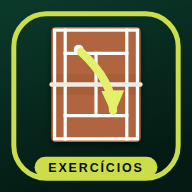
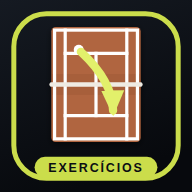
Volta o app de Exercicios ao visual anterior (desfaz o verde premium)
A pedido do Joao: a folha A4 e os exercicios ficam como estavam antes. Isto
desfaz 400e863 inteiro — cores da tela, icone, splash, manifest e o degrade
do desenho. Conteudo dos exercicios e folha A4 nao tinham mudado e seguem
iguais.

Claude-Session: https://claude.ai/code/session_014FKkHpNzg71Vb3bUZ4TcyT

Changed region(s): [[0.0, 0.0, 1.0, 0.5938]]

diff --git a/app-exercicios/index.html b/app-exercicios/index.html
@@ -5,7 +5,7 @@
 <meta name="viewport" content="width=device-width, initial-scale=1.0, viewport-fit=cover">
 <title>Banco de Exercícios JV · Da Base ao Topo</title>
 <meta name="description" content="Banco de exercícios da metodologia Da Base ao Topo: filtra por tema do mês, nível do aluno, bloco da aula e necessidade específica — e monta o plano de aula.">
-<meta name="theme-color" content="#06140F">
+<meta name="theme-color" content="#102438">
 <!-- Ferramenta interna do professor, não página de venda: fora do Google.
      O conteúdo do banco é o miolo da formação (produto pago) — ver LEIA-ME.md. -->
 <meta name="robots" content="noindex,nofollow">
@@ -32,14 +32,11 @@
 <meta name="apple-mobile-web-app-title" content="Exercícios JV">
 <style>
 :root{
-  /* verde premium JV — o mesmo da Gestão e do App Aluno (fundo #06140F,
-     dourado #E8B83E). Os nomes das variáveis ficaram "navy" por história. */
-  --navy:#072A1F; --navy-2:#0B3A2B; --navy-3:#105039; --deep:#041A13;
-  --gold:#E8B83E; --gold-2:#C9982A; --gold-soft:#F2CF62;
-  --cream:#EEF2E5; --ink:#10261E;
-  /* texto secundário: .42 dava 3,3:1 sobre o cartão — abaixo do mínimo */
-  --muted:rgba(238,242,229,.74); --muted-2:rgba(238,242,229,.62);
-  --line:rgba(232,184,62,.24); --line-2:rgba(238,242,229,.14);
+  --navy:#102438; --navy-2:#15304A; --navy-3:#1C3F5E; --deep:#0B1B2B;
+  --gold:#D8B45C; --gold-2:#C49A3F; --gold-soft:#E7CE93;
+  --cream:#F4EFE6; --ink:#21303D;
+  --muted:rgba(244,239,230,.62); --muted-2:rgba(244,239,230,.42);
+  --line:rgba(216,180,92,.22); --line-2:rgba(244,239,230,.12);
   --ok:#7FA650; --warn:#E0784A; --r:14px;
   --topo:env(safe-area-inset-top,0px); --base:env(safe-area-inset-bottom,0px);
 }
@@ -60,7 +57,7 @@ input,select{font:inherit}
 
 /* ---------- barra de cima ---------- */
 header.bar{
-  position:sticky;top:0;z-index:50;background:rgba(4,26,19,.97);
+  position:sticky;top:0;z-index:50;background:rgba(11,27,43,.97);
   backdrop-filter:saturate(140%) blur(10px);border-bottom:1px solid var(--line);
   padding-top:var(--topo);
 }
@@ -100,7 +97,7 @@ header.bar{
   padding:9px 16px;scrollbar-width:none;-webkit-overflow-scrolling:touch}
 .tira::-webkit-scrollbar{display:none}
 .tira.centro{max-width:900px;margin:0 auto}
-.chip{flex-shrink:0;min-height:40px;padding:8px 14px;border-radius:999px;border:1px solid var(--line-2);
+.chip{flex-shrink:0;padding:8px 14px;border-radius:999px;border:1px solid var(--line-2);
   font-size:13px;font-weight:600;color:var(--muted);white-space:nowrap;background:var(--navy-2);
   line-height:1.25;text-align:center}
 .chip:active{transform:scale(.96)}
@@ -112,7 +109,7 @@ header.bar{
 .chip.agora::after{content:"• agora";margin-left:6px;font-size:10px;font-weight:800;letter-spacing:.06em}
 
 .filtros{position:sticky;top:calc(58px + var(--topo));z-index:40;
-  background:rgba(7,42,31,.97);backdrop-filter:blur(8px);border-bottom:1px solid var(--line-2)}
+  background:rgba(16,36,56,.97);backdrop-filter:blur(8px);border-bottom:1px solid var(--line-2)}
 /* Painel de filtros aberto: a barra para de ser fixa. Fixa em cima, fixa em
    baixo e painel aberto nao cabem num celular pequeno — o primeiro exercicio
    fica entalado e o dedo nao alcanca. Aberta, ela rola embora. */
@@ -120,7 +117,7 @@ header.bar{
 .busca-linha{display:flex;gap:9px;padding:9px 16px 0;max-width:900px;margin:0 auto}
 .busca{flex:1;display:flex;align-items:center;gap:9px;background:var(--navy-2);
   border:1px solid var(--line-2);border-radius:12px;padding:0 13px;height:44px}
-.busca input{min-height:40px;flex:1;background:none;border:none;color:var(--cream);font-size:15.5px;outline:none;min-width:0}
+.busca input{flex:1;background:none;border:none;color:var(--cream);font-size:15.5px;outline:none;min-width:0}
 .busca input::placeholder{color:var(--muted-2)}
 .mais{height:44px;padding:0 15px;border-radius:12px;border:1px solid var(--line-2);
   background:var(--navy-2);font-size:13.5px;font-weight:700;color:var(--muted);white-space:nowrap}
@@ -222,7 +219,7 @@ header.bar{
 
 /* ---------- barra de baixo ---------- */
 .rodape{position:fixed;left:0;right:0;bottom:0;z-index:55;
-  background:rgba(4,26,19,.98);backdrop-filter:blur(10px);border-top:1px solid var(--line);
+  background:rgba(11,27,43,.98);backdrop-filter:blur(10px);border-top:1px solid var(--line);
   padding:10px 16px calc(10px + var(--base))}
 .rodape-in{max-width:900px;margin:0 auto;display:flex;gap:10px;align-items:center}
 .btn{display:inline-flex;align-items:center;justify-content:center;gap:8px;font-weight:800;
@@ -239,7 +236,7 @@ header.bar{
    endereco escondida, entao a folha passava por baixo da barra de baixo do
    navegador e o botao "por no plano" ficava fora do alcance do dedo. */
 .fundo{position:fixed;inset:0;height:100vh;height:100dvh;z-index:60;
-  background:rgba(2,12,8,.74);display:none;align-items:flex-end;justify-content:center}
+  background:rgba(6,14,23,.72);display:none;align-items:flex-end;justify-content:center}
 .fundo.aberto{display:flex}
 /* overscroll-behavior:contain — chegando no fim da folha, o arrasto para ali
    em vez de continuar rolando a lista atras dela. */
@@ -281,7 +278,7 @@ header.bar{
   padding-top:12px;border-top:1px solid var(--line-2)}
 
 /* ---------- card de treino: o desenho e o passo a passo ---------- */
-.qd-cx{border:1px solid var(--line);border-radius:13px;overflow:hidden;margin-bottom:16px;background:var(--navy-2)}
+.qd-cx{border:1px solid var(--line);border-radius:13px;overflow:hidden;margin-bottom:16px;background:#0E2337}
 .qd{display:block;width:100%}
 .qd-leg{display:flex;flex-wrap:wrap;gap:7px 13px;padding:9px 11px;background:var(--navy-2);
   font-size:10.5px;color:var(--muted);border-top:1px solid var(--line-2)}
@@ -298,7 +295,7 @@ header.bar{
 /* A frase que conta o que o desenho mostra. Existe para os 116 exercicios e
    estava so' no aria-label, invisivel para quem enxerga. */
 .qd-desc{font-size:14.5px;line-height:1.5;color:#F0E9DC;padding:12px;
-  background:rgba(232,184,62,.07);border-top:1px solid var(--line-2)}
+  background:rgba(216,180,92,.08);border-top:1px solid var(--line-2)}
 .qd-nota{font-size:12.5px;color:var(--muted);padding:9px 11px;background:var(--deep);
   border-top:1px solid var(--line-2);line-height:1.45}
 

diff --git a/ferramentas/gerar-icone-exercicios.js b/ferramentas/gerar-icone-exercicios.js
@@ -3,10 +3,9 @@
    Por que existe: os apps da JV usam todos o mesmo logo, e na tela de inicio
    do celular viram tres icones iguais. Este aqui se diferencia pelo ASSUNTO —
    a quadra de saibro vista de cima, com o trajeto da bola — que e' exatamente
-   a linguagem dos desenhos do banco. A familia se mantem pelo verde-limao da
-   marca e pela pastilha com o nome embaixo — detalhes
+   a linguagem dos 116 desenhos do banco. A familia se mantem pelo preto, pelo
+   verde-limao da marca e pela pastilha com o nome embaixo — os tres detalhes
    tirados do proprio icone da Gestao, que tem "GESTAO" escrito no mesmo lugar.
-   O fundo e' o verde premium do app (#041A13), o mesmo da tela.
 
    Uso, a partir da raiz do repositorio:
        node ferramentas/gerar-icone-exercicios.js
@@ -81,7 +80,7 @@ function svgIcone(S, mascara){
   return `<svg xmlns="http://www.w3.org/2000/svg" width="${S}" height="${S}" viewBox="0 0 ${S} ${S}">
     <defs>
       <linearGradient id="fundo" x1="0" y1="0" x2="0.35" y2="1">
-        <stop offset="0" stop-color="#0B3A2B"/><stop offset="1" stop-color="#041A13"/>
+        <stop offset="0" stop-color="#151A22"/><stop offset="1" stop-color="#07090D"/>
       </linearGradient>
       <marker id="pta" viewBox="0 0 10 10" refX="7" refY="5" markerWidth="3.5" markerHeight="3.5"
               orient="auto-start-reverse"><path d="M 0 1 L 9 5 L 0 9 z" fill="${LIMA_CLARO}"/></marker>

diff --git a/app-exercicios/quadra.js b/app-exercicios/quadra.js
@@ -909,7 +909,7 @@ function svgQuadra(fig, op){
       '<marker id="seta-mov" viewBox="0 0 10 10" refX="8" refY="5" markerWidth="' + (m * 0.9) + '" markerHeight="' + (m * 0.9) +
         '" orient="auto-start-reverse"><path d="M 0 1 L 9 5 L 0 9 z" fill="' + CQ.mov + '"/></marker>' +
       '<linearGradient id="ceu" x1="0" y1="0" x2="0" y2="1">' +
-        '<stop offset="0" stop-color="#062C20"/><stop offset="1" stop-color="#0B3A2B"/></linearGradient>' +
+        '<stop offset="0" stop-color="#13293D"/><stop offset="1" stop-color="#26404F"/></linearGradient>' +
       // a luz do chão: clara no meio (perto da rede), escura nas bordas
       // de leve: com a luz forte o desenho virava holofote, e o saibro das
       // bordas ficava quase preto

diff --git a/app-exercicios/sw-exercicios.js b/app-exercicios/sw-exercicios.js
@@ -4,7 +4,7 @@
    não carrega biblioteca de fora e não tem dado de aluno na nuvem. Os favoritos
    e o plano de aula ficam no próprio aparelho (localStorage).
    Por que importa: quadra de saibro com sinal ruim é a regra, não a exceção. */
-const CACHE = 'jv-exercicios-v22';   /* sobe a cada mudanca de tela: o v2 e' apagado no activate */
+const CACHE = 'jv-exercicios-v21';   /* sobe a cada mudanca de tela: o v2 e' apagado no activate */
 const SHELL = ['./', './exercicios.js', './quadra.js', './manifest-exercicios.webmanifest',
                './jv-icone-exercicios-192.png',
                /* a letra da folha A4: sem ela, offline, a folha sai na fonte do

diff --git a/ferramentas/gerar-splash.py b/ferramentas/gerar-splash.py
@@ -9,7 +9,7 @@
 
    Uso:
        python3 ferramentas/gerar-splash.py app-exercicios/jv-icone-exercicios.png \\
-           app-exercicios splash-exercicios --fundo "#06140F"
+           app-exercicios splash-exercicios --fundo "#102438"
 
    Imprime no fim o bloco de <link> pronto para colar no <head>.
 """
